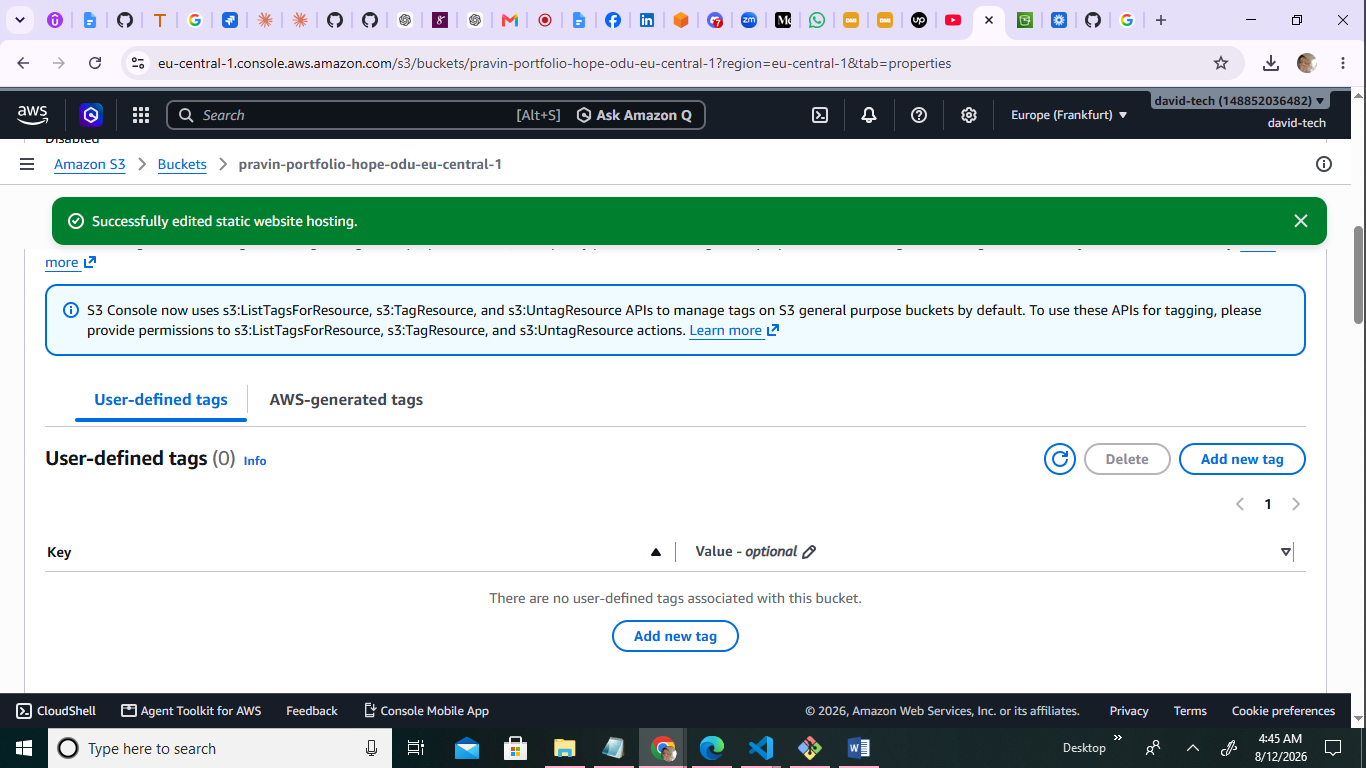
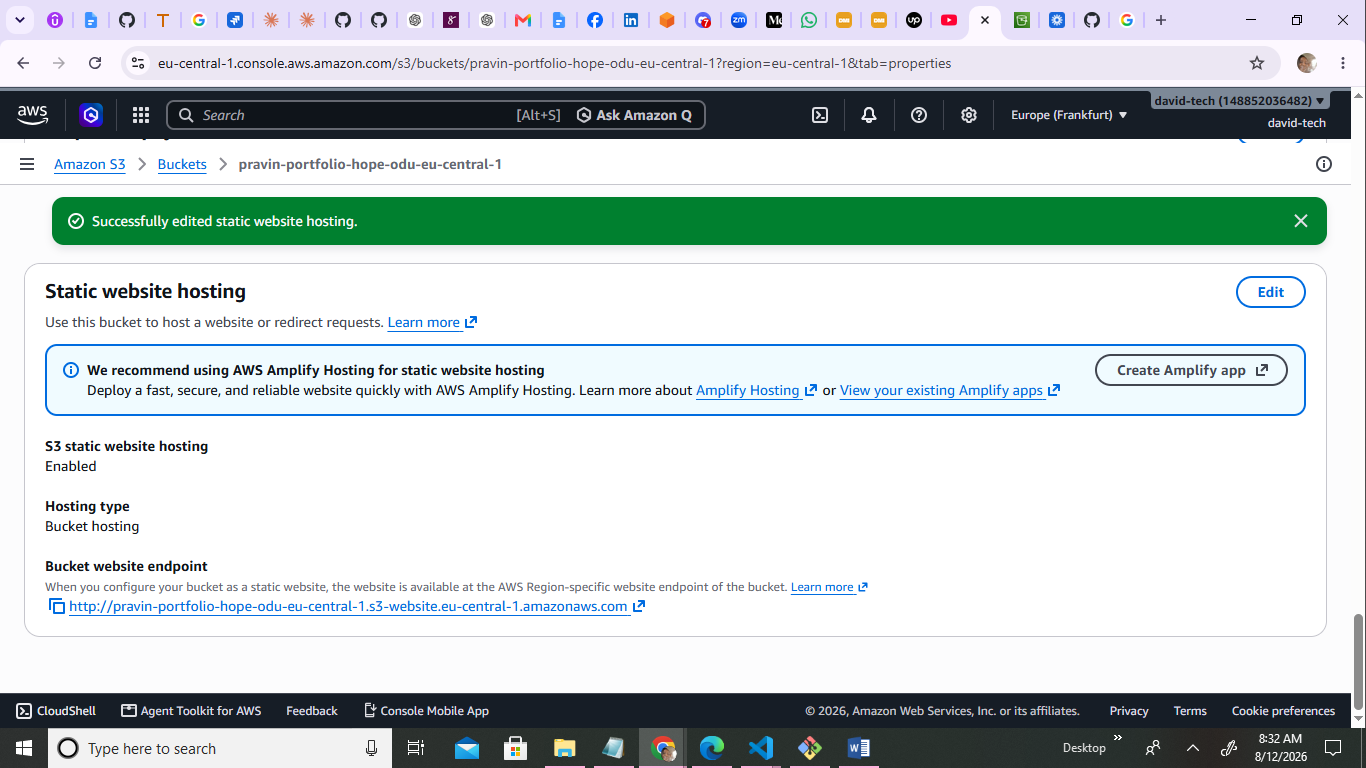
aws cloud update

diff --git a/week-06-aws-cloud/assignment-02-deploy-personal-portfolio-website-on-s3.md b/week-06-aws-cloud/assignment-02-deploy-personal-portfolio-website-on-s3.md
@@ -20,7 +20,7 @@ Download or clone the portfolio website template from GitHub and confirm `index.
 
 #### Screenshot 1 — File Explorer or terminal showing the template folder contents with `index.html` visible
 
-Add your screenshot here.
+![](<screenshots/Assignment 2/Screenshot 1.png>).
 
 ---
 
@@ -34,7 +34,7 @@ Create a globally unique S3 bucket in your chosen AWS region.
 
 #### Screenshot 2 — S3 bucket created screen showing the bucket name and region
 
-Add your screenshot here.
+![](<screenshots/Assignment 2/Screenshot 2.png>).
 
 ---
 
@@ -48,7 +48,7 @@ Upload the contents of the template folder (not the folder itself) so `index.htm
 
 #### Screenshot 3 — S3 bucket Objects view showing `index.html` at the top or root level
 
-Add your screenshot here.
+![](<screenshots/Assignment 2/Screenshot 3.png>).
 
 ---
 
@@ -62,7 +62,7 @@ Enable S3 Static Website Hosting with `index.html` as the index document and `er
 
 #### Screenshot 4 — Static website hosting enabled screen showing the Website endpoint
 
-Add your screenshot here.
+![](<screenshots/Assignment 2/Screenshot 4.png>).
 
 ---
 
@@ -76,7 +76,7 @@ Adjust Block Public Access settings and save a bucket policy that grants public 
 
 #### Screenshot 5 — Bucket policy page showing the policy saved successfully, with the bucket name visible
 
-Add your screenshot here.
+![](<screenshots/Assignment 2/Screenshot 5.png>).
 
 ---
 
@@ -90,7 +90,7 @@ Load the site through the S3 website endpoint and confirm the homepage, images, 
 
 #### Screenshot 6 — Browser showing the live website with the S3 website endpoint visible in the address bar
 
-Add your screenshot here.
+![](<screenshots/Assignment 2/Screenshot 6.png>).
 
 ---
 
@@ -104,7 +104,7 @@ Edit a small visible detail, re-upload it to S3, and confirm the change appears 
 
 #### Screenshot 7 (optional) — Before and after views, or a browser view showing the updated text
 
-Add your screenshot here.
+![](<screenshots/Assignment 2/Screenshot 7.png>).
 
 ---
 

diff --git a/week-06-aws-cloud/assignment-01-creating-an-aws-free-tier-account-and-budget-alerts.md b/week-06-aws-cloud/assignment-01-creating-an-aws-free-tier-account-and-budget-alerts.md
@@ -30,7 +30,8 @@ In the Billing Dashboard, create a monthly Cost Budget with a name, amount, and 
 
 #### Screenshot 1 — AWS Budget setup page showing the budget name, budget amount, and alert thresholds
 
-Add your screenshot here.
+![](<screenshots/Assignment 1/Screenshot 1(a).png>).
+![](<screenshots/Assignment 1/Screenshot 1(b).png>)
 
 ---
 
@@ -40,7 +41,7 @@ Answer the following in your own words:
 
 **1. Why is it important to set up budget alerts when using an AWS account?**
 
-Write your answer here.
+Setting up AWS Budget Alerts is important because they help you monitor your cloud spending and avoid unexpected charges. You can receive notifications when your usage or costs reach a set threshold, such as a percentage of your planned budget. This allows you to take action early by stopping or adjusting resources you no longer need.
 
 ---
 
